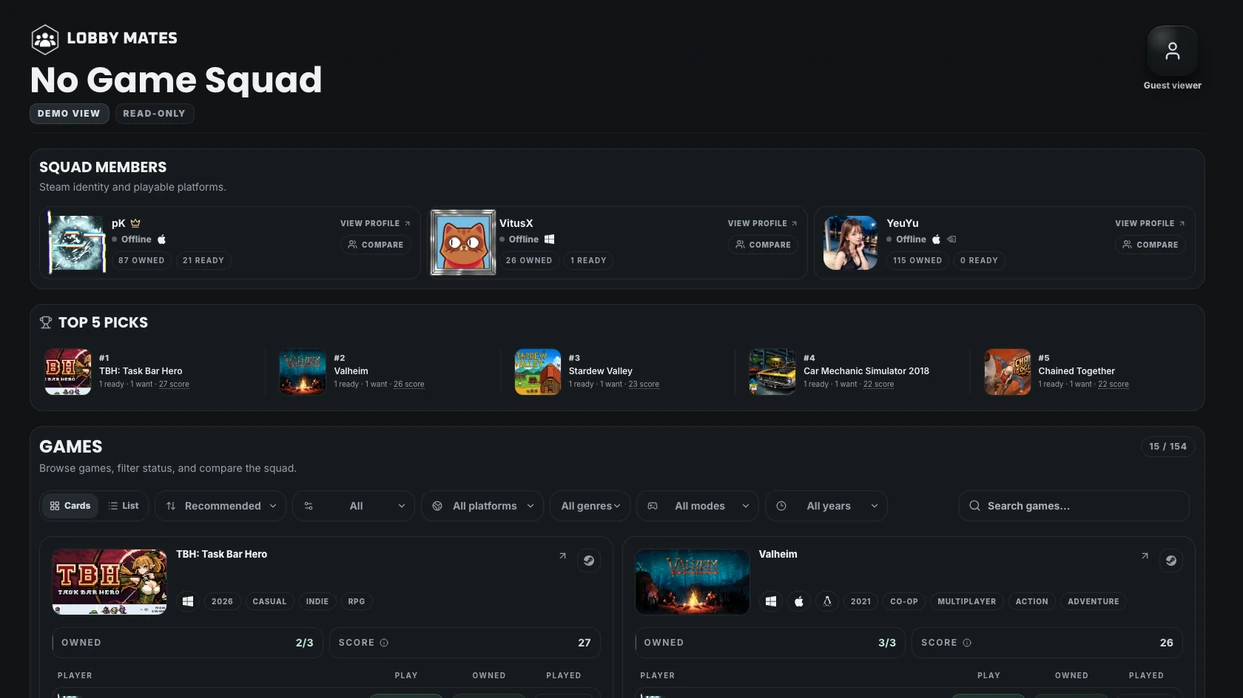
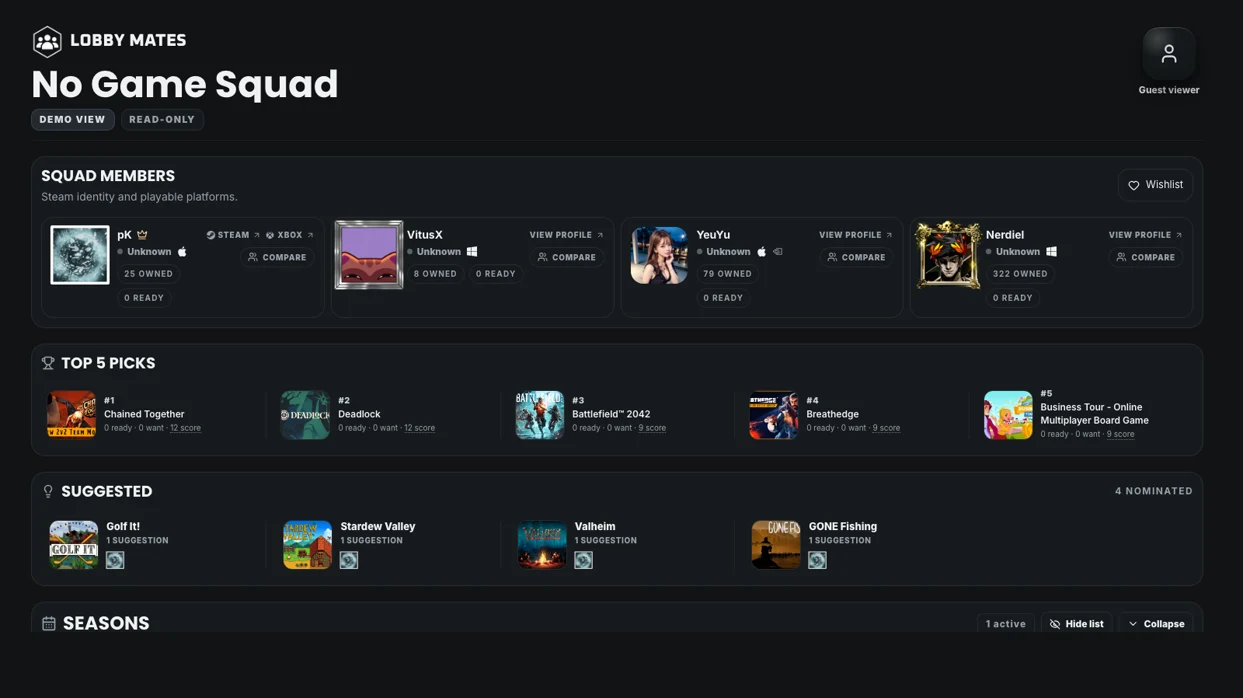
Update Lobby Mates portfolio project

diff --git a/app/lib/projects.ts b/app/lib/projects.ts
@@ -387,7 +387,7 @@ export const projects: Project[] = [
     subtitle:
       "A squad planning app that helps friend groups decide what they can play together.",
     description:
-      "A real full-stack product for gaming groups. Lobby Mates brings Steam login, squad invites, shared libraries, play intent, Steam wishlist overlap, profile presence, suggested games, top picks, comparison filters and Discord room setup into one focused dashboard, with a public read-only demo for portfolio review.",
+      "A live full-stack product for gaming groups, currently deployed in production and still actively evolving. Lobby Mates brings Steam and Microsoft/Xbox sign-in, squad invites, seasons, shared libraries, play intent, Steam wishlist overlap, profile presence, suggested games, top picks, comparison filters and Discord room setup into one focused dashboard, with a public read-only demo for portfolio review.",
     keyPoints: [
       rich(
         "Built around the practical question: ",
@@ -396,12 +396,12 @@ export const projects: Project[] = [
       ),
       rich(
         "Uses ",
-        strong("Steam OpenID and Steam Web API"),
+        strong("Steam OpenID, Microsoft/Xbox sign-in and Steam Web API"),
         " for account identity, profile data, current activity, game ownership, playtime, public library sync and squad wishlist discovery."
       ),
       rich(
         "Supports ",
-        strong("multi-squad membership, invite codes, active squad switching and leader/member permissions"),
+        strong("multi-squad membership, invite codes, seasons, active squad switching and leader/member permissions"),
         " in one production database."
       ),
       rich(
@@ -420,9 +420,14 @@ export const projects: Project[] = [
         " for private squad text and voice rooms managed from the app."
       ),
       "Includes a public read-only demo route powered by a viewer role, normal session cookies and server-side write guards.",
+      rich(
+        "Production deployment is live, but the product is still ",
+        strong("under active development"),
+        " as the core group workflow, ranking model and integrations continue to improve."
+      ),
     ],
     challenge:
-      "Making group game choice clear while keeping Steam sync, invites, permissions and Discord state reliable.",
+      "Making group game choice clear while shipping a live product whose multi-provider sign-in, seasons, Steam sync, invites, permissions, scoring and Discord state are still being actively refined.",
     tech: ["Next.js", "TypeScript", "Supabase", "Tailwind CSS", "Vercel"],
     liveUrl: "https://www.lobbymates.app/demo",
     thumbnail: {
@@ -435,12 +440,12 @@ export const projects: Project[] = [
         {
           heading: "Context",
           content:
-            "Lobby Mates started from a very ordinary group problem: deciding what to play takes longer than it should. People own different games, want different things, play on different platforms and often end up scrolling through chat instead of launching anything. I built Lobby Mates as a focused squad app that turns that messy conversation into a shared dashboard.",
+            "Lobby Mates started from a very ordinary group problem: deciding what to play takes longer than it should. People own different games, want different things, play on different platforms and often end up scrolling through chat instead of launching anything. I built Lobby Mates as a focused squad app that turns that messy conversation into a shared dashboard. The app is live in production, but I still treat it as an actively developed product rather than a frozen portfolio artifact.",
         },
         {
           heading: "Product loop",
           content:
-            "The core loop is simple: sign in with Steam, create or join a squad, sync public Steam libraries, compare what members own, mark what each person wants to play, check shared wishlist overlap, and use top picks and filters to decide what is ready now. The app is not broad social networking; it is a decision tool for existing friend groups.",
+            "The current product loop is simple: sign in with Steam or Microsoft/Xbox, create or join a squad, move through seasons, sync public Steam libraries, compare what members own, mark what each person wants to play, check shared wishlist overlap, and use top picks and filters to decide what is ready now. The app is not broad social networking; it is a decision tool for existing friend groups, and its production version keeps changing as I tighten that decision flow.",
         },
         {
           heading: "Architecture overview",
@@ -451,7 +456,7 @@ export const projects: Project[] = [
             strong("TypeScript"),
             " and ",
             strong("Tailwind CSS"),
-            ". Supabase Postgres is used through server-side REST access for users, sessions, squads, invites, games, statuses, suggestions and Discord integration records. The application is deployed on ",
+            ". Supabase Postgres is used through server-side REST access for users, sessions, squads, invites, seasons, games, statuses, suggestions and Discord integration records. The application is deployed on ",
             strong("Vercel"),
             " and includes Playwright smoke tests for the public and protected route surface. Vercel Web Analytics and Speed Insights are wired into the public release."
           ),
@@ -459,12 +464,17 @@ export const projects: Project[] = [
         {
           heading: "Auth and sessions",
           content:
-            "Production auth is Steam OpenID only. Lobby Mates never asks for a Steam username, password or Steam Guard code. After Steam verification, the app creates its own Supabase-backed session and stores the session token in an HTTP-only cookie. A separate active-squad cookie keeps squad switching stable across reloads.",
+            "Production auth started with Steam OpenID and now also supports Microsoft/Xbox sign-in. Lobby Mates never asks for a Steam username, password or Steam Guard code. After external account verification, the app creates its own Supabase-backed session and stores the session token in an HTTP-only cookie. A separate active-squad cookie keeps squad switching stable across reloads.",
         },
         {
           heading: "Squads and invites",
           content:
             "Users can create or join multiple squads, with one active squad in the current browser session. Invite codes and invite links are stored hashed in the database, expire automatically and can be revoked. The app has leader/member permissions for actions such as member removal, leadership transfer, squad deletion and Discord lobby creation.",
+        },
+        {
+          heading: "Seasons",
+          content:
+            "Seasons give the product a way to organize ongoing squad activity into named cycles instead of treating the dashboard as one endless state. That makes it easier to evolve ranking, intent and group decision history around the way friend groups actually come back to games over time.",
         },
         {
           heading: "Public demo mode",
@@ -494,7 +504,7 @@ export const projects: Project[] = [
         {
           heading: rich("Technical challenges ", em("aka the nightmares")),
           content:
-            "The hard part was keeping several external systems coherent without making the product feel heavy: Steam auth, library and wishlist availability, Supabase session state, squad membership, invite safety, stable sorting, optimistic UI updates, Discord role/channel state and enough permission boundaries that the app can expose a safe portfolio demo mode.",
+            "The hard part was keeping several external systems coherent without making the product feel heavy: Steam auth, Microsoft/Xbox sign-in, library and wishlist availability, Supabase session state, squad membership, seasons, invite safety, stable sorting, optimistic UI updates, Discord role/channel state and enough permission boundaries that the app can expose a safe portfolio demo mode.",
         },
         {
           heading: "Reliability and safety",
@@ -504,12 +514,12 @@ export const projects: Project[] = [
         {
           heading: "Impact",
           content:
-            "Lobby Mates turns an unstructured chat decision into a visible shared state. The useful part is not just storing a game list; it is making the group answer faster: who owns it, who wants it, whether it is playable now and where the squad can meet once they pick it.",
+            "Lobby Mates turns an unstructured chat decision into a visible shared state. The useful part is not just storing a game list; it is making the group answer faster: who owns it, who wants it, whether it is playable now and where the squad can meet once they pick it. Because the product is already deployed, each improvement can be tested against the real shape of the workflow instead of only against a static demo.",
         },
         {
           heading: "My role",
           content:
-            "I designed and built the product end-to-end: product model, branding, Next.js app structure, Steam auth, custom session flow, Supabase schema, invite system, dashboard UX, Steam library and wishlist pipelines, metadata enrichment, Discord OAuth/lobby integration, public read-only demo mode, production deployment and smoke testing.",
+            "I designed and built the product end-to-end: product model, branding, Next.js app structure, Steam auth, Microsoft/Xbox sign-in, custom session flow, Supabase schema, invite system, seasons, dashboard UX, Steam library and wishlist pipelines, metadata enrichment, Discord OAuth/lobby integration, public read-only demo mode, production deployment and smoke testing.",
         },
       ],
     },

diff --git a/app/lib/cv-data.ts b/app/lib/cv-data.ts
@@ -103,7 +103,7 @@ export const cvData: CvData = {
       subtitle: "Squad planning app for deciding what a group can play together.",
       stack: ["Next.js", "TypeScript", "Supabase", "Tailwind CSS", "Vercel"],
       summary:
-        "Built a production web app with external account sign-in, squad invites, shared library and wishlist sync, profile presence refresh, ownership-source handling, six-level play intent, audit-friendly scoring, suggested games, comparison filters, optional group room provisioning and a public read-only demo mode.",
+        "Built and continue to evolve a production web app with Steam and Microsoft/Xbox sign-in, squad invites, seasons, shared library and wishlist sync, profile presence refresh, ownership-source handling, six-level play intent, audit-friendly scoring, suggested games, comparison filters, optional group room provisioning and a public read-only demo mode.",
     },
     {
       projectId: "voucher-generator",
